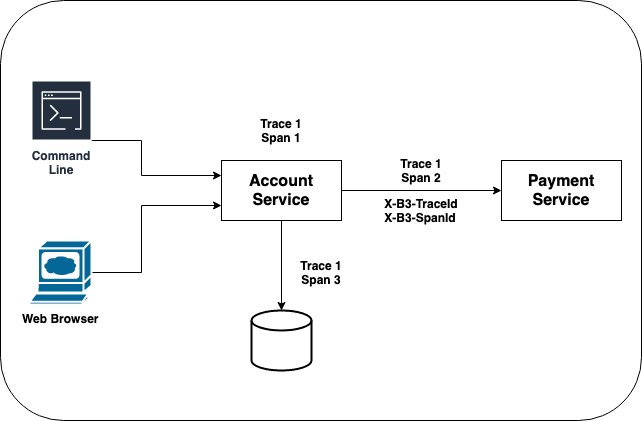
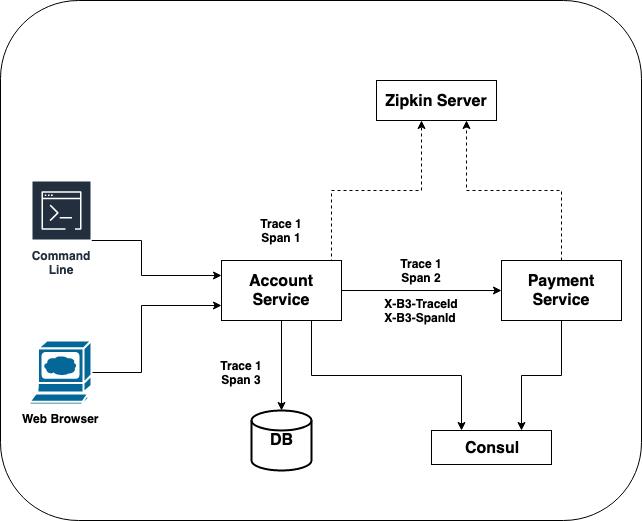
Spring cloud consul (#2)
* Add spring cloud consul support

* clean up

diff --git a/account-service/src/main/java/com/demo/account/controller/DiscoveryController.java b/account-service/src/main/java/com/demo/account/controller/DiscoveryController.java
@@ -1,0 +1,55 @@
+package com.demo.account.controller;
+
+import com.demo.account.model.DiscoveryInfo;
+import lombok.extern.slf4j.Slf4j;
+import org.springframework.beans.factory.annotation.Autowired;
+import org.springframework.cloud.client.discovery.DiscoveryClient;
+import org.springframework.web.bind.annotation.GetMapping;
+import org.springframework.web.bind.annotation.RestController;
+import org.springframework.web.client.RestClientException;
+import org.springframework.web.client.RestTemplate;
+
+import javax.naming.ServiceUnavailableException;
+import java.net.URI;
+import java.util.Optional;
+
+@RestController
+@Slf4j
+/**
+ * An example controller to show how service discovery can be accomplished using Consul.
+ *
+ * Payment Service assumes to provide /ping endpoint and the host/port information can be discovered
+ * by using DiscoveryClient.
+ *
+ * Account Service provides a /discovery client which in turns uses Consul to discover the network
+ * location of Payment Service and calls its /ping endpoint.
+ */
+public class DiscoveryController {
+    @Autowired
+    private DiscoveryClient discoveryClient;
+
+    @Autowired
+    private RestTemplate restTemplate;
+
+    public Optional<URI> paymentServiceUrl() {
+        return discoveryClient.getInstances("Payment")
+                .stream()
+                .map(si -> si.getUri())
+                .findFirst();
+    }
+
+    @GetMapping(value = "/discovery", produces = "application/json")
+    public DiscoveryInfo discoveryPing() throws RestClientException, ServiceUnavailableException {
+        URI service = paymentServiceUrl()
+                .map(s -> s.resolve("/ping"))
+                .map(uri -> { log.info("host={}", uri.getHost()); return uri; })
+                .orElseThrow(ServiceUnavailableException::new);
+
+        String paymentInfo = restTemplate.getForEntity(service, String.class).getBody();
+
+        DiscoveryInfo discoveryInfo = new DiscoveryInfo();
+        discoveryInfo.getInfo().put("payment", paymentInfo);
+
+        return discoveryInfo;
+    }
+}

diff --git a/account-service/src/main/java/com/demo/account/controller/Controller.java b/account-service/src/main/java/com/demo/account/controller/Controller.java
@@ -2,6 +2,7 @@ package com.demo.account.controller;
 
 import com.demo.account.client.PaymentClient;
 import com.demo.account.client.model.PaymentInfo;
+import com.demo.account.config.CustomProperties;
 import com.demo.account.model.AccountInfo;
 import lombok.extern.slf4j.Slf4j;
 import org.springframework.beans.factory.annotation.Autowired;
@@ -16,14 +17,19 @@ public class Controller {
     @Autowired
     PaymentClient paymentClient;
 
+    @Autowired
+    CustomProperties customProperties;
+
     @RequestMapping("/accounts/{id}")
     public AccountInfo getAccountInfo(@PathVariable long id) {
         log.info("Handling getAccountInfo, id={}", id);
+        log.info("custom properties, description={}", customProperties.getDescription());
 
         PaymentInfo paymentInfo = paymentClient.getPaymentInfo(id);
 
         AccountInfo accountInfo = new AccountInfo();
         accountInfo.setPaymentInfo(paymentInfo);
+        accountInfo.setDescription(customProperties.getDescription());
 
         return accountInfo;
     }

diff --git a/account-service/src/main/java/com/demo/account/AccountApplication.java b/account-service/src/main/java/com/demo/account/AccountApplication.java
@@ -2,14 +2,16 @@ package com.demo.account;
 
 import org.springframework.boot.SpringApplication;
 import org.springframework.boot.autoconfigure.SpringBootApplication;
+import org.springframework.cloud.client.discovery.EnableDiscoveryClient;
 import org.springframework.cloud.openfeign.EnableFeignClients;
 
 @SpringBootApplication
-@EnableFeignClients
+@EnableFeignClients // provides declarative REST client
+@EnableDiscoveryClient // enable us to discover the network location of dependent services
 public class AccountApplication {
 
-	public static void main(String[] args) {
-		SpringApplication.run(AccountApplication.class, args);
-	}
+    public static void main(String[] args) {
+        SpringApplication.run(AccountApplication.class, args);
+    }
 
 }

diff --git a/account-service/src/main/java/com/demo/account/config/CustomProperties.java b/account-service/src/main/java/com/demo/account/config/CustomProperties.java
@@ -1,0 +1,14 @@
+package com.demo.account.config;
+
+import lombok.Data;
+import org.springframework.boot.context.properties.ConfigurationProperties;
+import org.springframework.cloud.context.config.annotation.RefreshScope;
+import org.springframework.context.annotation.Configuration;
+
+@RefreshScope
+@Configuration
+@ConfigurationProperties("custom")
+@Data
+public class CustomProperties {
+    private String description;
+}

diff --git a/payment-service/src/main/java/com/demo/payment/controller/DiscoveryController.java b/payment-service/src/main/java/com/demo/payment/controller/DiscoveryController.java
@@ -1,0 +1,15 @@
+package com.demo.payment.controller;
+
+import org.springframework.web.bind.annotation.GetMapping;
+import org.springframework.web.bind.annotation.RestController;
+
+import java.util.Date;
+
+@RestController
+public class DiscoveryController {
+
+    @GetMapping(value = "/ping")
+    public String ping() {
+        return "pong at " + new Date();
+    }
+}

diff --git a/account-service/src/main/java/com/demo/account/model/DiscoveryInfo.java b/account-service/src/main/java/com/demo/account/model/DiscoveryInfo.java
@@ -1,0 +1,11 @@
+package com.demo.account.model;
+
+import lombok.Getter;
+
+import java.util.HashMap;
+import java.util.Map;
+
+@Getter
+public class DiscoveryInfo {
+    private Map<String, Object> info = new HashMap<>();
+}

diff --git a/account-service/src/main/java/com/demo/account/model/AccountInfo.java b/account-service/src/main/java/com/demo/account/model/AccountInfo.java
@@ -6,4 +6,5 @@ import lombok.Data;
 @Data
 public class AccountInfo {
     PaymentInfo paymentInfo;
+    String description;
 }

diff --git a/README.md b/README.md
@@ -8,12 +8,12 @@ The focus is on using open source libraries that are developed to work with Spri
 
 ### What is Being Addressed?
 
-* request and response logging
-* distributed tracing
-* API endpoint client
-* service discovery (TBD)
-* configuration management (TBD)
-* secret management (TBD)
+1. request and response logging
+2. distributed tracing
+3. API endpoint client
+4. service discovery
+5. configuration management
+6. secret management (TBD)
 
 ### What Is Not Being Addressed?
 
@@ -235,7 +235,7 @@ A new Trace ID will be created automatically the first time a request is enterin
 ![tracing02](./docs/img/zipkin_tracing_02.png)
 
 
-## 3. Client For Service To Service Communication
+## 3. API Endpoint Client
 
 A typical communication mechanism between services is through HTTP. For a sending side to communicate with the receiving side, there are a few options to be considered:
 
@@ -319,10 +319,113 @@ public class PaymentInfo {
 * Spring Cloud OpenFeign does depend on a Client Load Balancer solution. For it to work, an additional dependency (Ribbon) is also brought in as well. Whether or not using Client Load Balancer together in the Spring Boot application is recommended is up for debate.
 
 
+## 4. Service Discovery
 
-## 4. Run All The Services
+[Consul](https://www.consul.io/) provides a Key/Value Store for storing configuration and other metadata. In additional to that, Consul also provides **Service Discovery** and **Health Checking** functionalities. 
 
-If you would like to build the services, a Dockerfile has been provided for each service.
+[Spring Cloud Consul](https://spring.io/projects/spring-cloud-consul) is chosen to provide Consul integrations for Spring Boot application. When application starts up, it registeres with Consul server and retrieves configuration data from it. Once registered, Consul performs health check on a regular basis and allows other applications to discover this service. When configuration data is updated, application can also discover the change by using Config Watch which runs on a configurable interval.
+
+### Configuration
+
+**`pom.xml`** 
+```
+<dependency>
+    <groupId>org.springframework.cloud</groupId>
+    <artifactId>spring-cloud-starter-consul-all</artifactId>
+</dependency>
+```
+
+**Sample configuration in `bootstrap.yaml`**
+
+The Consul configuration shown here assumes Consul Server is reachable at localhost. Dependents on the configuration, a Consul Agent running at localhost is more likely a better choice. Consul Agent then communicates with Consul Server on behave of the application so that application does not need to know where and how to communicate to Consul Server.
+
+
+```
+spring:
+  application:
+    name: Account
+  cloud:
+    consul:
+      host: localhost
+      port: 8500
+      discovery:
+        # to have unique name in Consul
+        instance-id: ${spring.application.name}:${random.value}
+      config:
+        enabled: true
+        watch:
+          # delay in milliseconds, the frequency of when ConfigWatch is called
+          delay: 1000
+        prefix: config
+```
+
+The **DiscoveryController** class has sample code to demonstrate how to use **DiscoveryClient** to find out the network location of the dependent service.
+
+
+## 5. Configuration Management
+
+### Configuration
+
+**Sample configuration in `bootstrap.yaml`**
+
+```
+spring:
+  application:
+    name: Account
+  cloud:
+    consul:
+      host: localhost
+      port: 8500
+      config:
+        enabled: true
+        watch:
+          # delay in milliseconds, the frequency of when ConfigWatch is called
+          delay: 1000
+        prefix: config
+```
+
+**Configuration Data In Consul Key/Value Store**
+
+Configure a key/value pair with the following information
+
+|Key|Value|
+|---|---|
+|config/Account/custom.description|some value|
+
+
+Note on the key format:
+  * `config` is the prefix configured in **bootstrap.yaml** file under `spring.cloud.consul.config.prefix`.
+  * Service name is `Account` and is case sensitive
+  * `custom.description` maps to the Configuration Properties class shown below
+
+
+![consul config](./docs/img/consul_configuration.png)
+
+
+**Configuration Property Class**
+
+All the properties are encapsulated in the **CustomProperties** class and **ConfigurationProperties** annotation is configured with value `custom`. With this configuration, each key configured in Consul will have the `custom.{KEY_NAME}` format. An example of key would be `custom.description`.
+
+```
+@RefreshScope
+@Configuration
+@ConfigurationProperties("custom")
+public class CustomProperties {
+    private String description;
+}
+```
+
+Note:
+* With `RefreshScope` annotation, Config Watch will watch changes in Consul and update value accordingly.
+
+
+
+## Run All The Services
+
+When running each service individually (not using `docker-compose`), Account Service is running at `localhost:8080` and Payment Service is running at `localhost:8081`. Zipkin is assumed to be available at `localhost:9411` and Consul is available at `localhost:8500`.
+
+
+If you would like to build the services as container, a Dockerfile has been provided for each service.
 
 Execute the following command to build container image for all services.
 
@@ -358,7 +461,16 @@ To retrieve payment information for account of id
 http://localhost:8081/paymentInfo/accounts/123
 ```
 
-## 5. Google Cloud Build Integration
+**Zipkin Server**
+
+Zipkin is available at `localhost:9411`
+
+**Consul**
+
+Consul UI is available at `localhost:8500`
+
+
+## Continuous Integration: Google Cloud Build
 
 A Cloud Build `cloudbuild.yaml` file has been provided and the github repository has been configured to have a build triggered every time there is a commit pushed to any branch.
 
